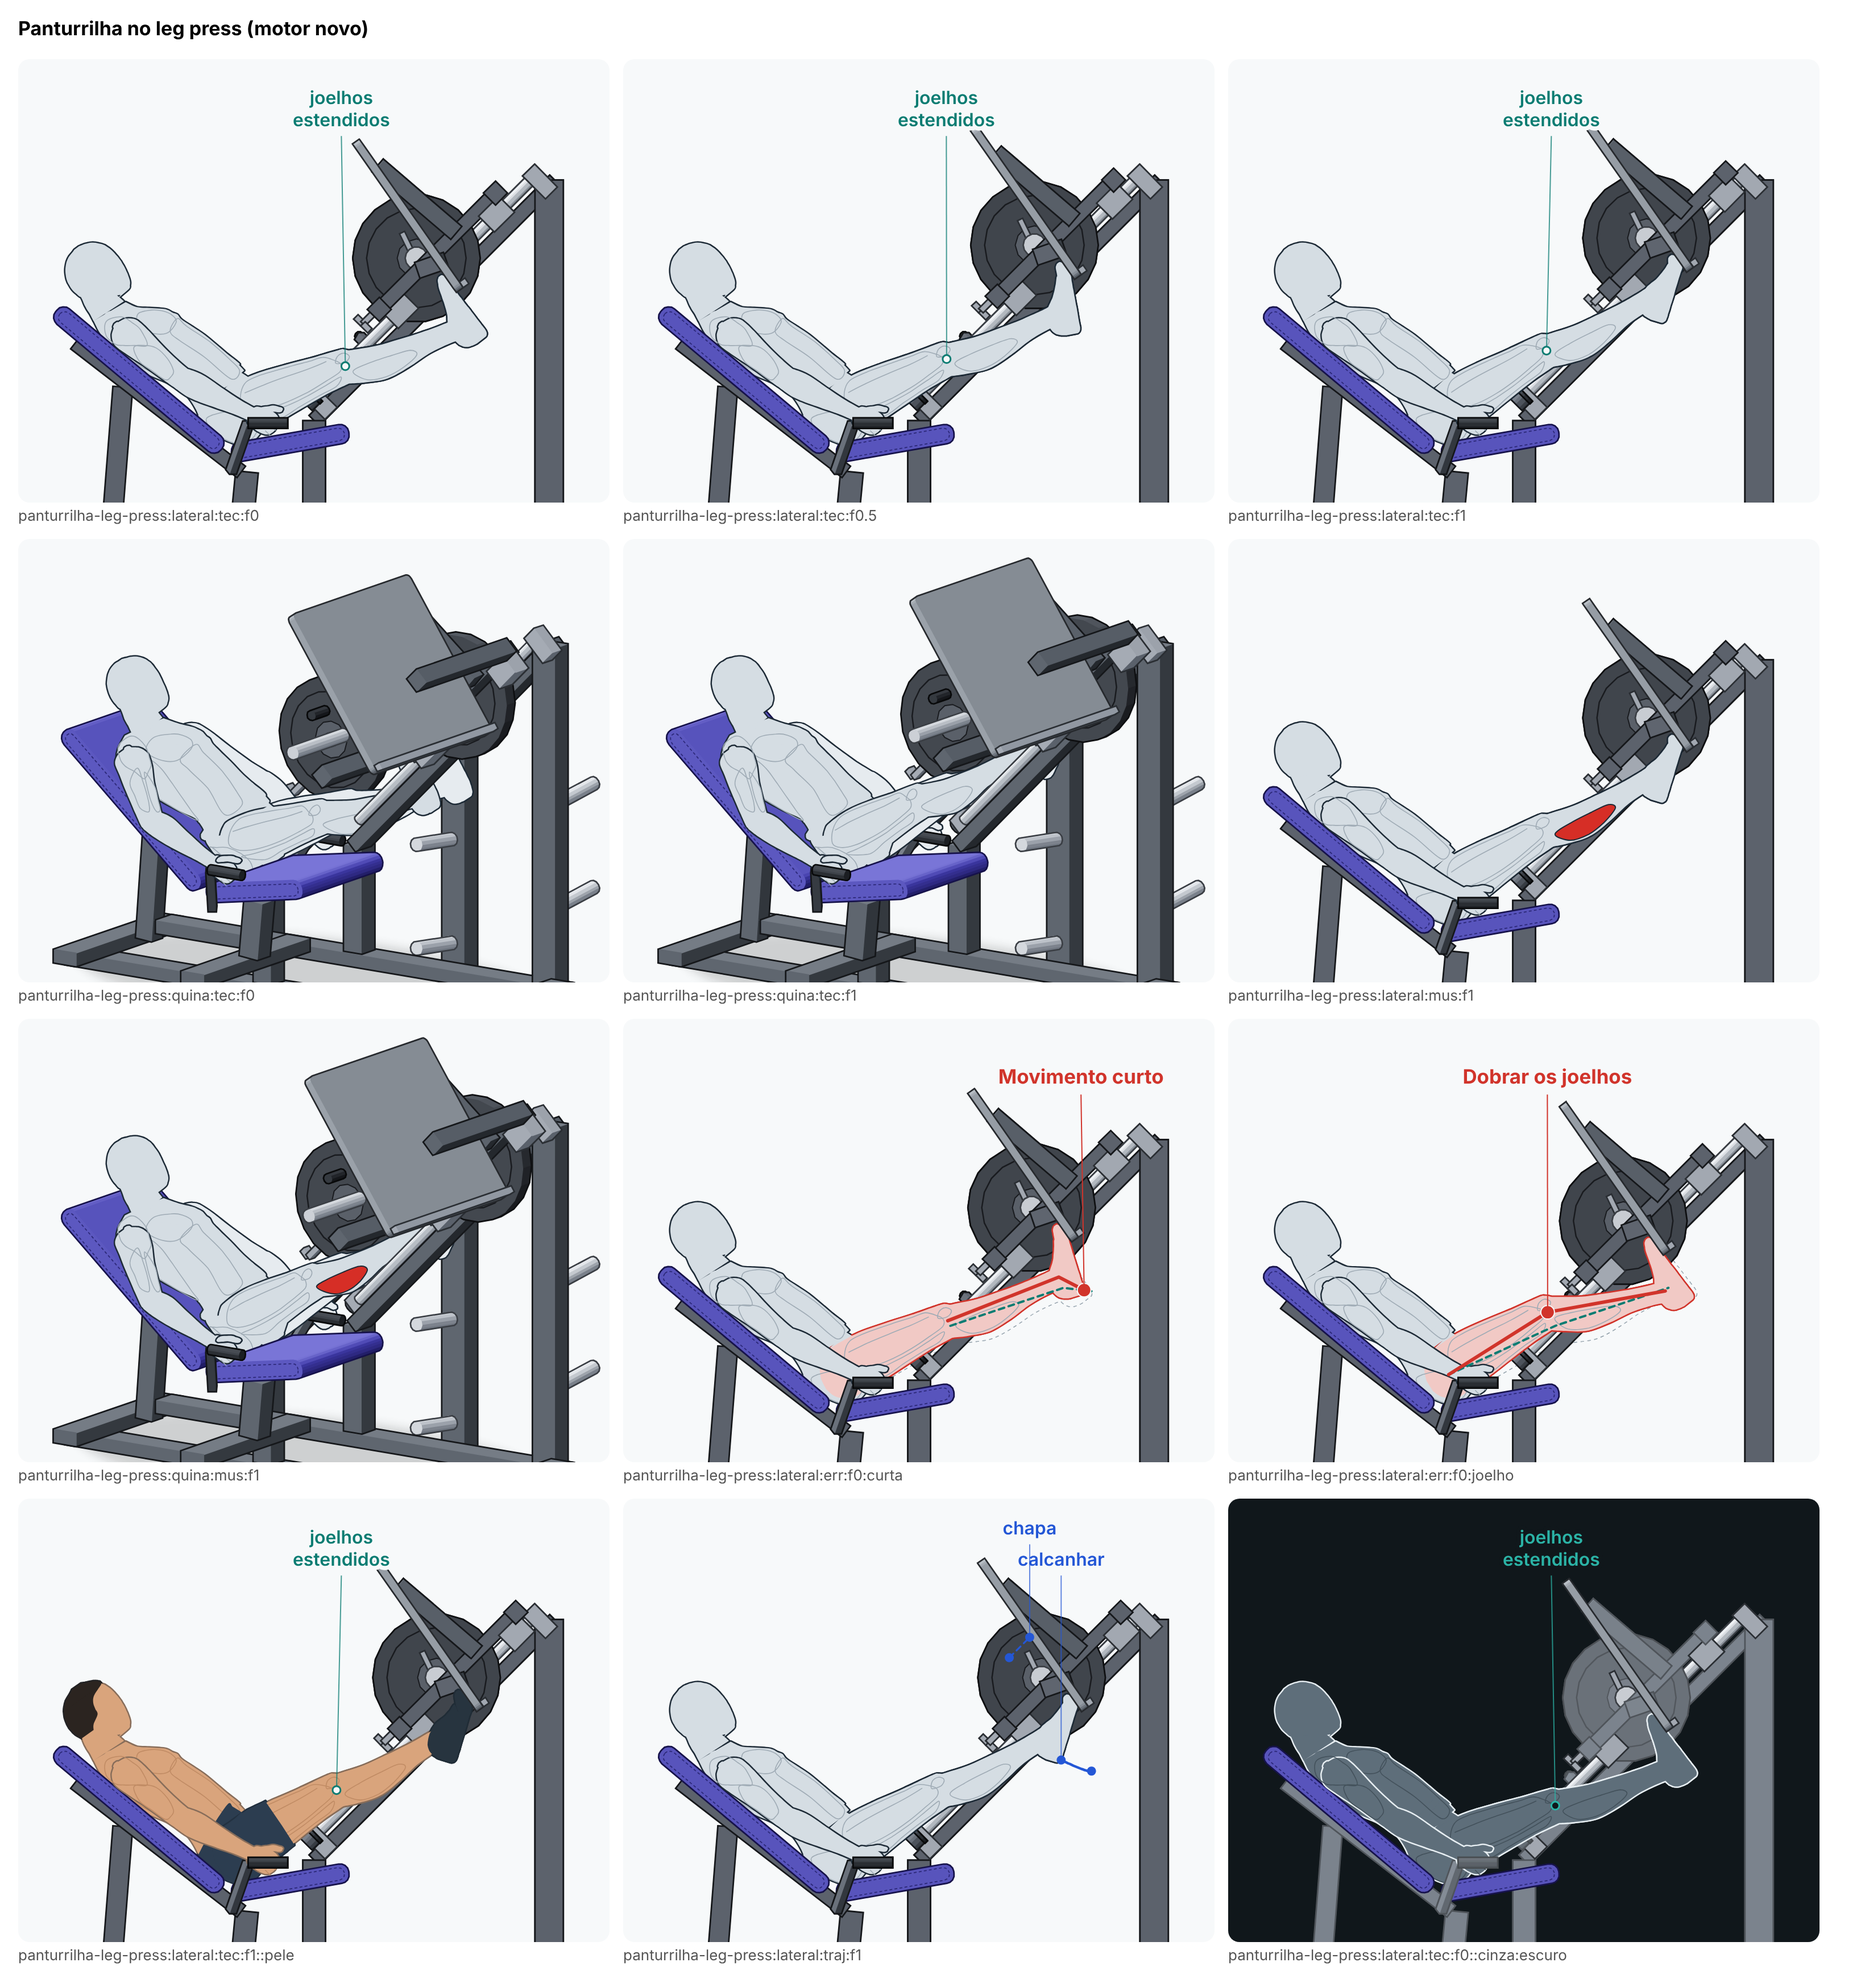
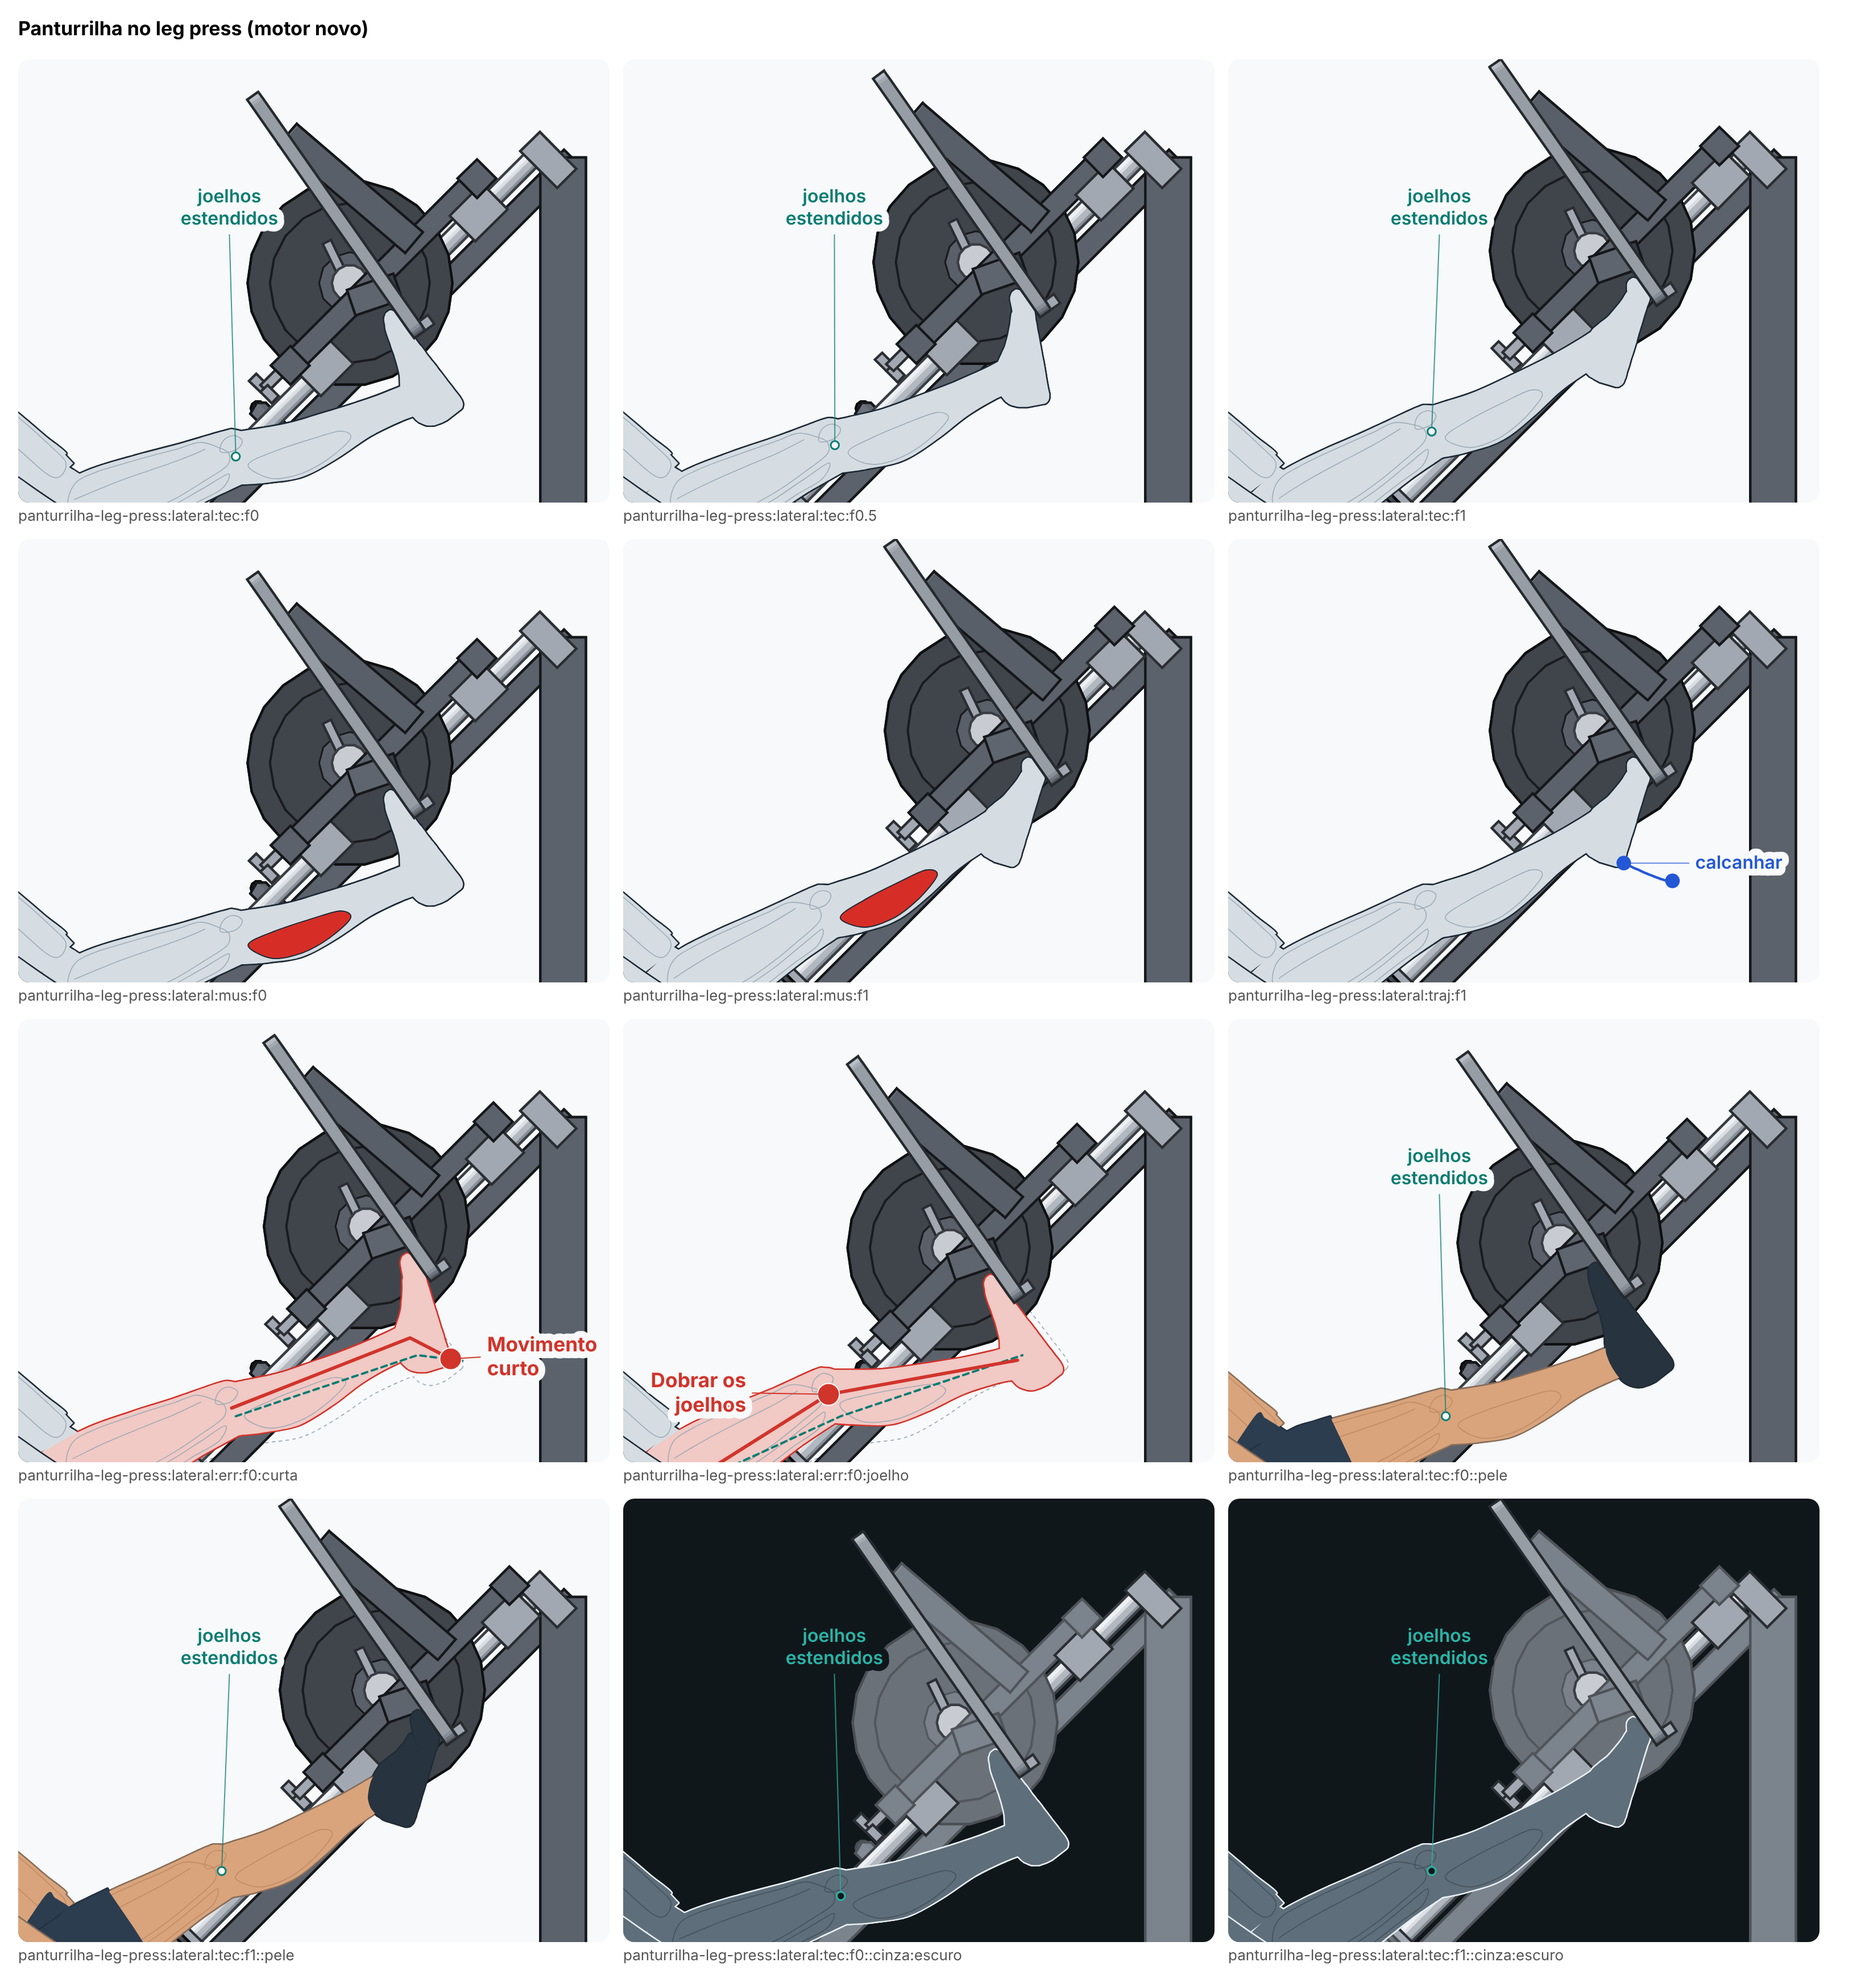
Lote C1: panturrilha no leg press com o quadro nas pernas e nos pés
O quadro de lado mostra só a perna (do pé ao joelho e 40% da coxa) e a
borda de baixo da chapa: o tronco e o alto da máquina são cortados pela
borda, e o calcanhar que desce e sobe se lê. O motor ganha o campo
opcional `enquadra` no exercício (os pontos que o quadro mostra numa
vista); sem ele nada muda. A vista de três quartos sai (a chapa
escondia os pés; nenhuma outra mostra o tornozelo) e o modo Trajetória
fica só com o calcanhar.

Claude-Session: https://claude.ai/code/session_01YRzts8DBGbsca9onebcMt1

diff --git a/src/engine/novo/exercicios/panturrilha-leg-press.ts b/src/engine/novo/exercicios/panturrilha-leg-press.ts
@@ -15,10 +15,11 @@ import { daFicha, fichaSchema, resolver1 } from '../movimento';
 import type { Exercicio, Quadro } from '../movimento';
 import { chao } from '../pecas';
 import type { IdAnilha } from '../pecas-de-cena/barra-longa';
-import { geometriaDoLegPress, legPress as maquina, naChapa, noQuadroDoLegPress, posicaoDaTrava } from '../pecas-de-cena/leg-press';
+import { geometriaDoLegPress, legPress as maquina, naChapa, posicaoDaTrava } from '../pecas-de-cena/leg-press';
 import type { Corpo } from '../tabelas';
 import { obj } from '../tabelas';
-import { add, mix, mul } from '../vec';
+import { add, mix, mul, sub } from '../vec';
+import type { V3 } from '../vec';
 import { carroParaOJoelho, dirDoPe, maosNosPegadores, peNaChapa, troncoNoLegPress } from './leg-press-base';
 import type { OpcoesDoAssento, PeNaChapa } from './leg-press-base';
 
@@ -67,7 +68,7 @@ function quadro(corpo: Corpo, u: number, erro?: string): Quadro {
     batente: obj('legPress', 'trilhoInicio') + obj('legPress', 'carroComp') / 2 + 4,
     anilhas: ANILHAS,
     atras: -1,
-    noQuadro: noQuadroDoLegPress(montar(corpo, G0.topo, f('joelho')).s, f('quadro.abaixo'), f('quadro.chapa'), obj('legPress', 'trilhoFim')),
+    // o quadro é o das pernas e dos pés (pernasEPes, abaixo): a máquina não entra no enquadramento
   });
   return {
     esq: r.e,
@@ -93,11 +94,32 @@ function quadro(corpo: Corpo, u: number, erro?: string): Quadro {
     vies: { maoR: 1, maoL: 1 },
   };
 }
+/**
+ * O que o quadro mostra: o que mexe é o pé, pequeno perto da máquina. Do joelho à ponta do pé, com a borda de baixo da
+ * chapa e um pedaço dela acima dos dedos; o tronco e o alto da máquina ficam cortados pela borda do quadro.
+ */
+function pernasEPes(q: Quadro): V3[] {
+  const s = q.marcas.sobeChapa!,
+    b = q.marcas.bordaDaChapa!;
+  const pts: V3[] = [];
+  for (const k of ['R', 'L'] as Lado[]) {
+    const L = q.esq.lado[k];
+    // um pouco acima do joelho (a coxa aparece até a metade), o tornozelo, o calcanhar e a ponta do pé
+    pts.push(add(L.joelho, mul(sub(L.quadril, L.joelho), f('quadro.coxa'))), L.calcanhar, L.ponta, L.tornozelo);
+  }
+  pts.push(b, add(b, mul(s, f('quadro.chapa'))), add(b, mul(q.marcas.normalChapa!, -6)));
+  return pts;
+}
+
 export const panturrilhaLegPress: Exercicio = {
   ficha: F,
-  vistas: ['lateral', 'quina'],
+  // uma vista só: de frente e de três quartos a chapa esconde os pés; de trás, o encosto esconde o corpo; de cima, a chapa
+  // cobre os pés; de três quartos por trás, o carro e as anilhas ficam por cima das pernas. O tornozelo só se lê de lado.
+  vistas: ['lateral'],
   quadro,
   // a panturrilha, sem secundário: é o que a biblioteca conta
   papeis: { panturrilha: 'p' },
-  trajetorias: { calcanhar: (q) => q.esq.lado.R.calcanhar, chapa: (q) => q.marcas.chapa! },
+  // só o calcanhar: a chapa anda quase junto com ele, e as duas linhas ficavam uma sobre a outra
+  trajetorias: { calcanhar: (q) => q.esq.lado.R.calcanhar },
+  enquadra: { lateral: pernasEPes },
 };

diff --git a/src/engine/novo/cena.ts b/src/engine/novo/cena.ts
@@ -212,6 +212,24 @@ export function caixaDoCiclo(ex: Exercicio, o: Omit<OpcoesCena, 'modo' | 'erro'>
   }
   const T = duracao(ex.ficha.fases);
   c = [1e9, 1e9, -1e9, -1e9];
+  // o exercício pode pedir, numa vista, só alguns pontos no quadro (Exercicio.enquadra): o resto é cortado pela borda
+  const so = ex.enquadra?.[o.vista];
+  if (so) {
+    const cam = VISTAS[o.vista];
+    const ponha = (q: Quadro) => {
+      for (const p of so(q)) {
+        const t = naTela(cam, p);
+        c![0] = Math.min(c![0], t[0]);
+        c![1] = Math.min(c![1], t[1]);
+        c![2] = Math.max(c![2], t[0]);
+        c![3] = Math.max(c![3], t[1]);
+      }
+    };
+    for (let i = 0; i < 12; i++) ponha(quadroDe(ex, o.corpo, instante(ex.ficha.fases, (i / 12) * T).u));
+    for (const e of ex.ficha.erros) if (e.vista === o.vista) for (let i = 0; i < 6; i++) ponha(quadroDe(ex, o.corpo, instante(ex.ficha.fases, (i / 6) * T).u, e.id));
+    m.set(chave, c);
+    return c;
+  }
   const junta = (itens: Item[]) => {
     const k = caixaDosItens(itens.filter((it) => it.camada >= 1));
     c![0] = Math.min(c![0], k[0]);

diff --git a/src/engine/novo/movimento.ts b/src/engine/novo/movimento.ts
@@ -108,6 +108,12 @@ export interface Exercicio {
   papeis: Record<string, 'p' | 's' | 'a'>;
   /** Trajetórias do modo Trajetória: nome do ponto → função que o lê no quadro. */
   trajetorias: Record<string, (q: Quadro) => V3>;
+  /**
+   * Opcional (acréscimo de 18/11, a panturrilha no leg press): numa vista, o enquadramento mostra só estes pontos (cm,
+   * lidos de cada quadro do ciclo e dos erros da vista), e não o corpo inteiro e o equipamento; o resto é cortado pela
+   * borda do quadro. Para o que mexe ser pequeno perto de uma máquina grande (o pé, no leg press).
+   */
+  enquadra?: Partial<Record<string, (q: Quadro) => V3[]>>;
 }
 
 /* ============================== centro de massa ============================== */

diff --git a/docs/revisoes/animacao-nova/lote-C1/panturrilha-leg-press.md b/docs/revisoes/animacao-nova/lote-C1/panturrilha-leg-press.md
@@ -30,7 +30,7 @@ Conferência automática (`node scripts/animacao-nova/conferir.mjs panturrilha-l
 - **Dorsiflexão 18,8°** (média da tabela 14,8°): é o alongamento da panturrilha no step aprovada, de propósito.
 - **Provisórios:** a lombar, o pescoço, a cabeça, o quanto afunda, a largura e a direção dos pés, os dois ângulos do tornozelo (da animação aprovada, não da ficha), a anilha e o corte do quadro.
 
-O resto: proporções exatas, ritmo suave (5,5% da velocidade de pico), simetria e fecho do ciclo em 0 cm. As duas vistas servem ao modo Músculos (de lado 108 cm², de três quartos 83 cm²).
+O resto: proporções exatas, ritmo suave (5,5% da velocidade de pico), simetria e fecho do ciclo em 0 cm.
 
 ## Os erros
 
@@ -40,11 +40,17 @@ O resto: proporções exatas, ritmo suave (5,5% da velocidade de pico), simetria
 | Dobrar os joelhos | embaixo os joelhos dobram 22° (no certo, 6°) e esticam na subida, empurrando o carro com as coxas; o carro desce 1,6 cm a mais e continua acima da trava | lateral, embaixo |
 | Quicar embaixo | **sem desenho**: é erro de ritmo ("bater e voltar sem a pausa"); a pose do quique é a mesma do movimento certo. Fica para o ritmo próprio por erro (plano, seção 5) ou para a lista `SEM_DESENHO` do teste da ponte | — |
 
+## Correções da revisão de 18/11/2026 (quem integra)
+
+1. **O movimento do tornozelo não se lia** (o corpo inteiro no quadro, o pé pequeno no canto). Agora o quadro de lado mostra só a perna, do pé ao joelho e 40% da coxa, com a borda de baixo da chapa e 16 cm dela acima dos dedos (`quadro.coxa`, `quadro.chapa`); o tronco e o alto da máquina são cortados pela borda (seção 7 do guia). O pé ficou umas três vezes maior: embaixo se vê o calcanhar abaixo da ponta, em cima a ponta do pé na borda da chapa. Para isso o motor ganhou um campo opcional no exercício, `enquadra` (`movimento.ts`, lido em `caixaDoCiclo`, `cena.ts`): numa vista, o quadro mostra só os pontos pedidos. Sem ele, nada muda nas outras animações (o `preparo.mjs` só regravou o arquivo deste exercício).
+2. **A vista de três quartos escondia os pés atrás da chapa: saiu, e a animação fica com uma vista só.** Testei as outras com o mesmo corte: de frente e de cima, a chapa cobre os pés; de trás, o encosto cobre o corpo; de três quartos por trás, o carro e as anilhas ficam por cima das canelas e o pé se perde no canto. Nenhuma mostra o tornozelo melhor que de lado.
+3. **No modo Trajetória ficou só o calcanhar** ("chapa" andava quase junto com ele, uma linha sobre a outra).
+
 ## O que não ficou bom
 
-- **O calcanhar quase não passa do plano da chapa** (0,8 cm embaixo): o alongamento está no ângulo do tornozelo, igual ao da panturrilha aprovada, mas quem olha espera ver o calcanhar "descer além da chapa". Para mostrar mais, o tornozelo teria de dobrar 25° a 37° com o joelho esticado, além da média da tabela.
-- **De três quartos, a chapa cobre os pés:** a segunda vista serve aos músculos (a panturrilha aparece), não ao tornozelo, que só se vê de lado.
-- **Um rótulo só na vista de lado** ("joelhos estendidos"): "alonga embaixo" apontaria para o calcanhar, que fica junto da chapa e das anilhas; o texto caía em cima delas.
-- O carro anda pouco (10 cm na guia), como no aparelho; o movimento é pequeno no quadro.
+- **O calcanhar quase não passa do plano da chapa** (0,8 cm embaixo): o alongamento está no ângulo do tornozelo, igual ao da panturrilha aprovada. Para mostrar mais, o tornozelo teria de dobrar 25° a 37° com o joelho esticado, além da média da tabela.
+- **Atrás do pé fica a anilha** (escura) e a alavanca da trava: o pé claro se destaca dela, mas a cena é carregada. Tirar a anilha da vista seria mudar a peça.
+- **Uma vista só** (o guia pede duas): ver o item 2 acima. A miniatura mostra só a perna e o pé na chapa.
+- **Um rótulo só** ("joelhos estendidos"); o nome do erro "Dobrar os joelhos" encosta na coxa, no canto do quadro.
 
-**Risco de o Gustavo não gostar: médio.** A pose está certa e medida, mas o movimento é pequeno e o "calcanhar abaixo da ponta" se lê menos que no step.
+**Risco de o Gustavo não gostar: médio.** O tornozelo agora se lê; a anilha atrás do pé e a vista única são os pontos a olhar.
